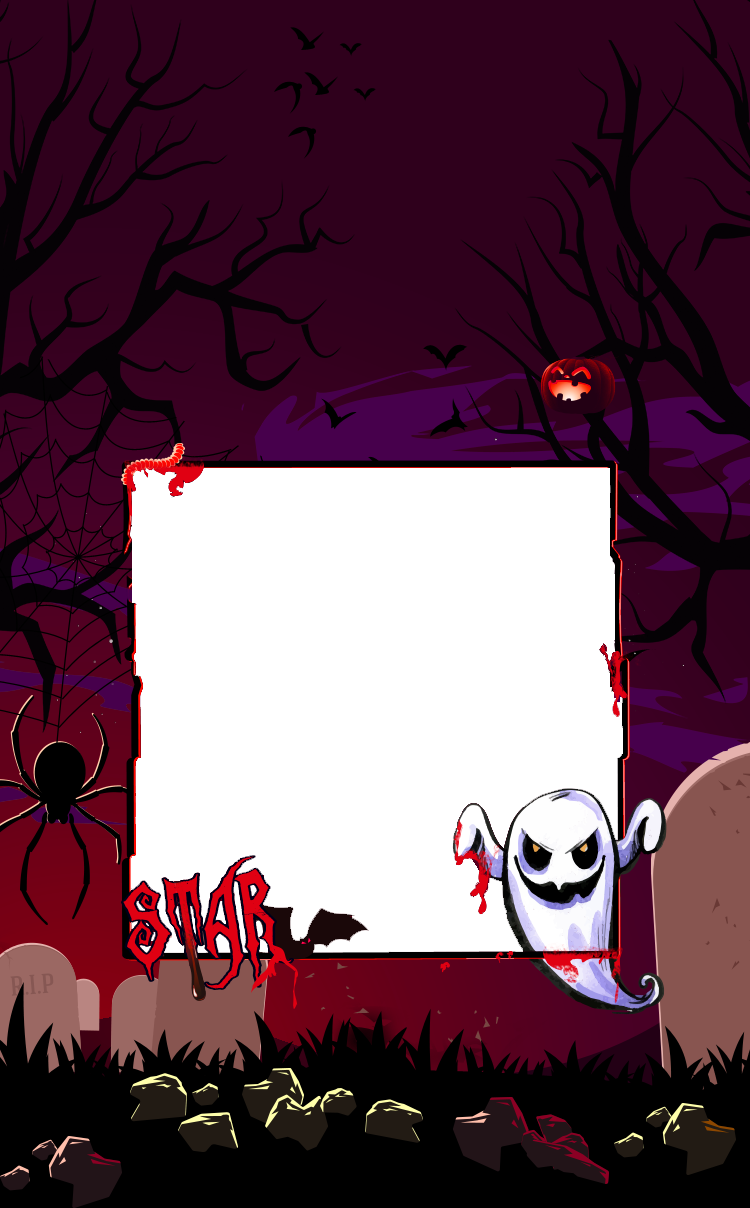
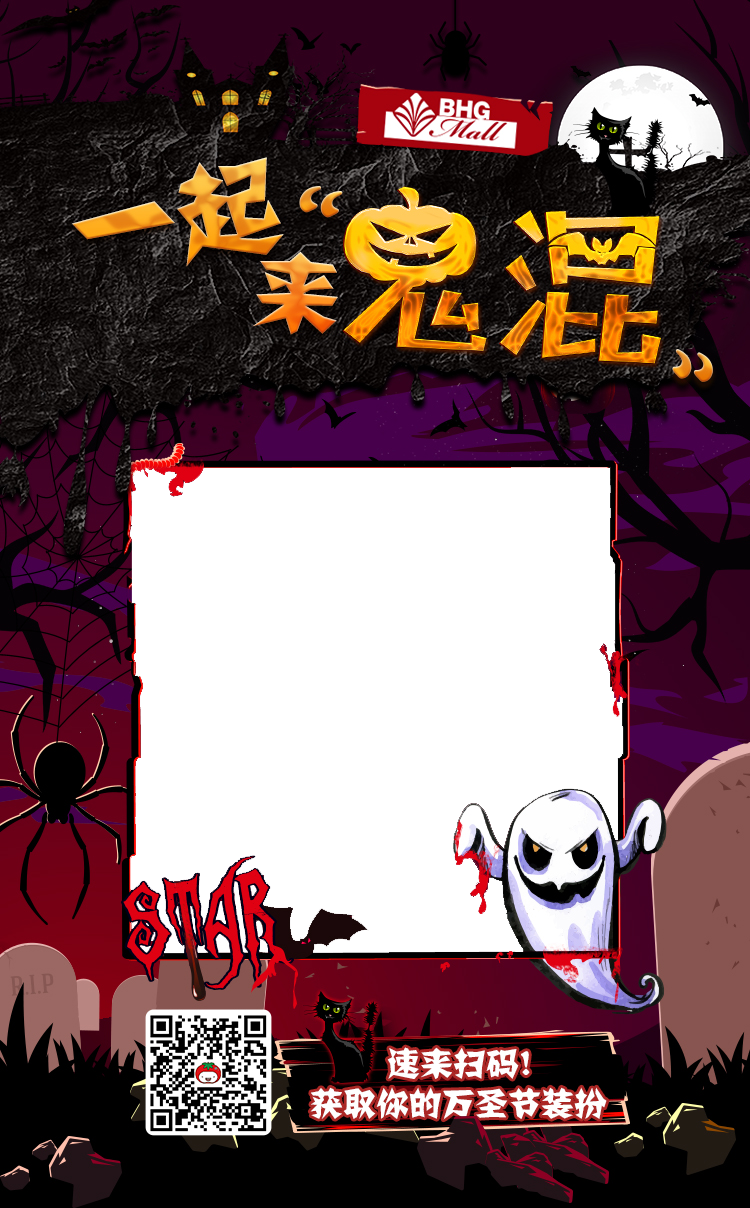
17

diff --git a/index.html b/index.html
@@ -6,21 +6,31 @@
 		<title>H5调用 相机相册</title>
 		<style type="text/css">
 			body{margin: 0;width: 100%; height: 100%;background: #660033; }
+			.page{
+				position: absolute;
+				left: 0;
+				right: 0;
+				top: 0;
+				bottom: 0;
+				width: 100%;
+				height: 100%;
+			}
+			.page img{
+				position: absolute;
+				left: 0;
+				top: 0;
+			}
 			.bg{ width: 375px;
 				height: 604px;
-				background: url("img/mask.png") no-repeat; background-size: contain; -webkit-background-size: contain;
+				background: url("img/bg.png") no-repeat; background-size: cover; -webkit-background-size: cover;
 				position: absolute;
 				left: 50%;
 				top: 50%;
 				margin-top: -302px;
 				margin-left: -187px;
 			}
-			#upload{border-top: 1px #CCC solid;}
-			#place6{/*background-image: url(img/add.png); background-repeat: no-repeat;background-position:.6em;background-size: 3em;background-position-x: 47%;*/ background-color: #660033;}
 			.imageShow{position: absolute; bottom: 1em;left: 0;height: 4.5em;width: 100%;margin-top: 10px;}
-			.imageShow div{float: left;margin-left: 8%;width: 24%;height: 2.5em; font-size: 1em; color:#fff;text-align: center;line-height: 2.5em;font-weight: 600;-webkit-border-radius:1em;-moz-border-radius:1em; border-radius: 1em;background-color: #660033;}
-			/*#imageInfo{border: 0px #f00 solid;position: absolute;top: 8em;right: 0;left: 0;bottom: 0;background-color: black;color: white;font-size: 14px;padding-left: 10px;overflow: auto;}*/
-
+			.imageShow div{float: left;margin-left: 5%;width: 9.75em;height: 3.344em; }
 			#layer{ width: 100%;
 				position: absolute;top: 0;bottom: 0;left: 0;right: 0;
 				background: #000; align-items: center;justify-content: center;display: flex;
@@ -130,6 +140,27 @@
 				-webkit-background-size: cover;
 				background-size: cover;
 			}
+			#files_upload1{
+				background: url("img/start.png") no-repeat;
+				-webkit-background-size: cover;
+				background-size: cover;
+			}
+			#end{
+				background: url("img/end.png") no-repeat;
+				-webkit-background-size: cover;
+				background-size: cover;
+			}
+			.first_icon{
+				width: 9.75em;
+				height: 2.75em;
+				background: url("img/go.png") no-repeat;
+				-webkit-background-size: cover;
+				background-size: cover;
+				position: absolute;
+				left: 50%;
+				margin-left: -4.875em;
+				top: 90%;
+			}
 			.icon{
 				width: 2.937em;
 				height: 2.75em;
@@ -138,6 +169,16 @@
 				background-size: cover;
 				position: absolute;
 				right: 2em;
+				top: 8.375em;
+			}
+			.icon1{
+				width: 2.937em;
+				height: 2.75em;
+				background: url("img/icon1.png") no-repeat;
+				-webkit-background-size: cover;
+				background-size: cover;
+				position: absolute;
+				left: 2em;
 				top: 8.375em;
 			}
 		</style>
@@ -161,18 +202,16 @@
 			<div id="addImg" class="img0"></div>
 			<!-- 图片放置区域 -->
 			<div class="imageShow">
-
-				<div id="place6">
-					<label for="files_upload1" id="upload">
-						<div id="files_upload1" style="width: 100%;">添加图片</div>
-					</label>
-				</div>
-				<div style="width: 24%; float:right; margin-right: 10%;" onclick="hecheng()">
-					<div style="width: 100%;">点击合成</div>
-				</div>
+				<div id="files_upload1"></div>
+				<div id="end" style="float:right; margin-left: 0; margin-right: 5%;" onclick="hecheng()"></div>
 			</div>
 			<div class="icon" onclick="addImg()"></div>
+			<div class="icon1" onclick="reduceImg()"></div>
 			<div id="imgBox"></div>
+		</div>
+		<div class="page" id="page">
+			<img src="img/page.jpg" alt="" width="100%" height="100%" />
+			<div id="#icon" onclick="start()" class="first_icon"></div>
 		</div>
 	</body>
 	<script src="js/jquery-2.1.3.js"></script>

diff --git a/js/readimage.js b/js/readimage.js
@@ -140,6 +140,11 @@ var callBack = function(files) {
 	});
 };
 var carera=new $.Pgater($("#files_upload1"),callBack);
+/*start*/
+var oPage = document.getElementById('page');
+function start(){
+	oPage.style.display = 'none';
+}
 /*换图*/
 var oDiv = document.getElementById("addImg");
 var oImgCon = document.getElementById('place1');
@@ -158,6 +163,17 @@ function addImg(){
     oDiv.classList.remove('img'+(count-1));
     oDiv.classList.add('img'+count);
 }
+function reduceImg(){
+	count = count - 1;
+	if( count == -1){
+		oDiv.classList.remove('img'+(count+1));
+		count = 8;
+		oDiv.classList.add('img8');
+		return;
+	}
+	oDiv.classList.remove('img'+(count+1));
+	oDiv.classList.add('img'+count);
+}
 document.addEventListener('DOMContentLoaded',function(){
 	drag(oDiv);
 	/*drag(nodes);*/
@@ -168,6 +184,7 @@ function hecheng(){
 		alert('请选择照片');
 		return false;
 	}
+	alert('生成图片后，长按保存到相册');
 	draw(function(){
 		oLayer.style.display = 'none';
 		$('.imageShow').css('display','none');
